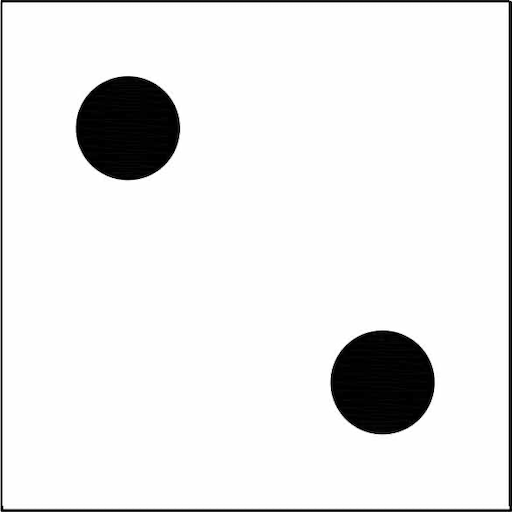
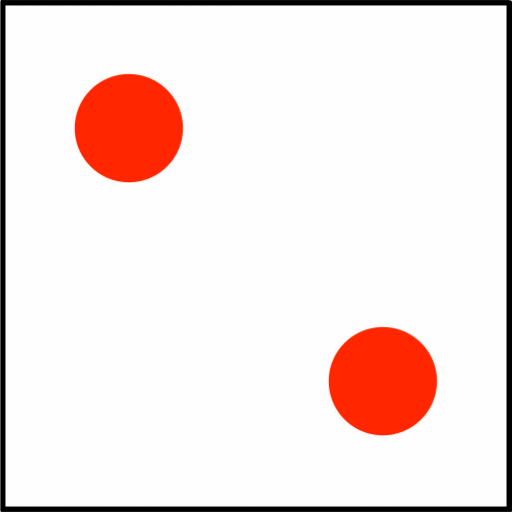
FIX bug with Dice dimension and update color Dice

Changed region(s): [[0.0, 0.0, 1.0, 1.0], [0.125, 0.125, 0.375, 0.375], [0.625, 0.625, 0.875, 0.875]]

diff --git a/public/js/moduleDice.js b/public/js/moduleDice.js
@@ -49,7 +49,8 @@ export class Dice{
                 
     }
         
-    createDice(){
+    createDice(){        
+
         this.camera = new THREE.PerspectiveCamera(80, this.canvasElement.clientWidth / this.canvasElement.clientHeight , 0.1, 1000);
         this.renderer = new THREE.WebGLRenderer({
             canvas: this.canvasElement,
@@ -58,7 +59,7 @@ export class Dice{
 
         this.renderer.setClearColor(0xFFFFFF,0);
 
-        const diceGeometry = new THREE.BoxGeometry(5,5,5);
+        const diceGeometry = new THREE.BoxGeometry(4,4,4);
 
         const materials = [
             new THREE.MeshBasicMaterial( {map: new THREE.TextureLoader().load('public/images/face1.png')}), // RIGHT side
@@ -71,7 +72,7 @@ export class Dice{
 
         this.dice = new THREE.Mesh(diceGeometry, materials);
 
-        this.camera.position.set(3,7,5)
+        this.camera.position.set(2,5,3)
         this.camera.lookAt(0,0,0)
 
         this.scene.add(this.dice);

diff --git a/public/css/style.css b/public/css/style.css
@@ -5,7 +5,8 @@ body {
     margin: 0;
     padding: 0;    
     font-family: 'Lato', sans-serif;
-    font-weight: 100;    
+    font-weight: 100;
+    background-color: blue;
 }
 
 .bg-round {
@@ -50,10 +51,13 @@ body {
 .player {
     border: 1px solid rgb(169, 169, 255);
 }
+.btn-noborder{
+    border: none;
+}
 
 @media screen and (min-width:992px) {
     .score {
-        font-size: 4rem;
+        font-size: 6rem;
     }
     .playerName {
         font-size: 2rem;        
@@ -63,7 +67,7 @@ body {
         font-size: 2rem;        
     }
     .current {
-        font-size: 1.8rem;
+        font-size: 1.5rem;
     }
     .holdScore {
         font-size: 2.2rem;
@@ -71,5 +75,8 @@ body {
     .player {
         border: none;
     }
-
+    #dice {
+        height:300px;
+        width:300px;
+    }
 }

diff --git a/public/view/controls.php b/public/view/controls.php
@@ -1,20 +1,24 @@
 <?php
 ob_start();
 ?>
-<div class="align-self-end px-lg-0">
-    <button id="newGamebutton" class="btn btn-outline-success controls mb-1 col-12" data-bs-toggle="modal" data-bs-target="#formModal" type="button"> <!-- class player -->
-            <i class="bi bi-plus-circle text-danger"></i>&ensp;NEW GAME
-    </button>
-</div>
-<canvas id="dice" class="px-lg-0"></canvas>
-<div class="px-lg-0">
-    <button id="rollDice" class="btn btn-outline-success controls my-1 col-12" type="button" disabled>
-        <i class="bi bi-arrow-repeat text-danger"></i>&ensp;
-        ROLL DICE
-    </button>
-    <button class="btn btn-outline-success controls col-12" type="button" id="hold" disabled>        
-        <i class="bi bi-box-arrow-in-down text-danger"></i>&ensp;HOLD
-    </button>
+<div class="d-flex flex-column">
+    <div class="justify-content-center px-lg-0">
+        <button id="newGamebutton" class="btn btn-outline-success controls mb-1 col-12 btn-noborder" data-bs-toggle="modal" data-bs-target="#formModal" type="button"> <!-- class player -->
+                <i class="bi bi-plus-circle text-danger"></i>&ensp;NEW GAME
+        </button>
+    </div>
+    <div class="d-flex px-lg-0 flex-grow-1 justify-content-center">
+        <canvas id="dice" class="align-self-center"></canvas>
+    </div>
+    <div class="px-lg-0">
+        <button id="rollDice" class="btn btn-outline-success controls my-1 col-12 btn-noborder" type="button" disabled>
+            <i class="bi bi-arrow-repeat text-danger"></i>&ensp;
+            ROLL DICE
+        </button>
+        <button class="btn btn-outline-success controls col-12 btn-noborder" type="button " id="hold" disabled>        
+            <i class="bi bi-box-arrow-in-down text-danger"></i>&ensp;HOLD
+        </button>
+    </div>
 </div>
 
 <?php

diff --git a/public/view/template.php b/public/view/template.php
@@ -11,7 +11,7 @@
     <link rel="stylesheet" href="./public/css/style.css">
     <title>Jeu de dé</title>
 </head>
-<body class="bg-secondary d-flex justify-content-center vh-100">
+<body class="d-flex justify-content-center vh-100">
     <div class="container row bg-light my-0 my-lg-4 mx-0 px-1">
         <div class="row col mx-0 px-0 mx-lg-4 justify-content-center">
             <div class="row col-12 col-lg justify-content-center order-2 order-lg-1 mx-0 my-1 my-lg-4 px-4">

diff --git a/public/view/player.php b/public/view/player.php
@@ -15,7 +15,7 @@ ob_start();
     <div class="row col-4 col-lg-8 align-self-start px-0 px-lg-1">
         <div class="col bg-round text-center" id="<?= $player ?>RoundBackground">
             <p class="current mb-0"> 
-                Current
+                CURRENT
             </p>
             <p id="<?= $player ?>Round" class="text-light my-1 holdScore">
                 <?= random_int(0, 30); ?>            
